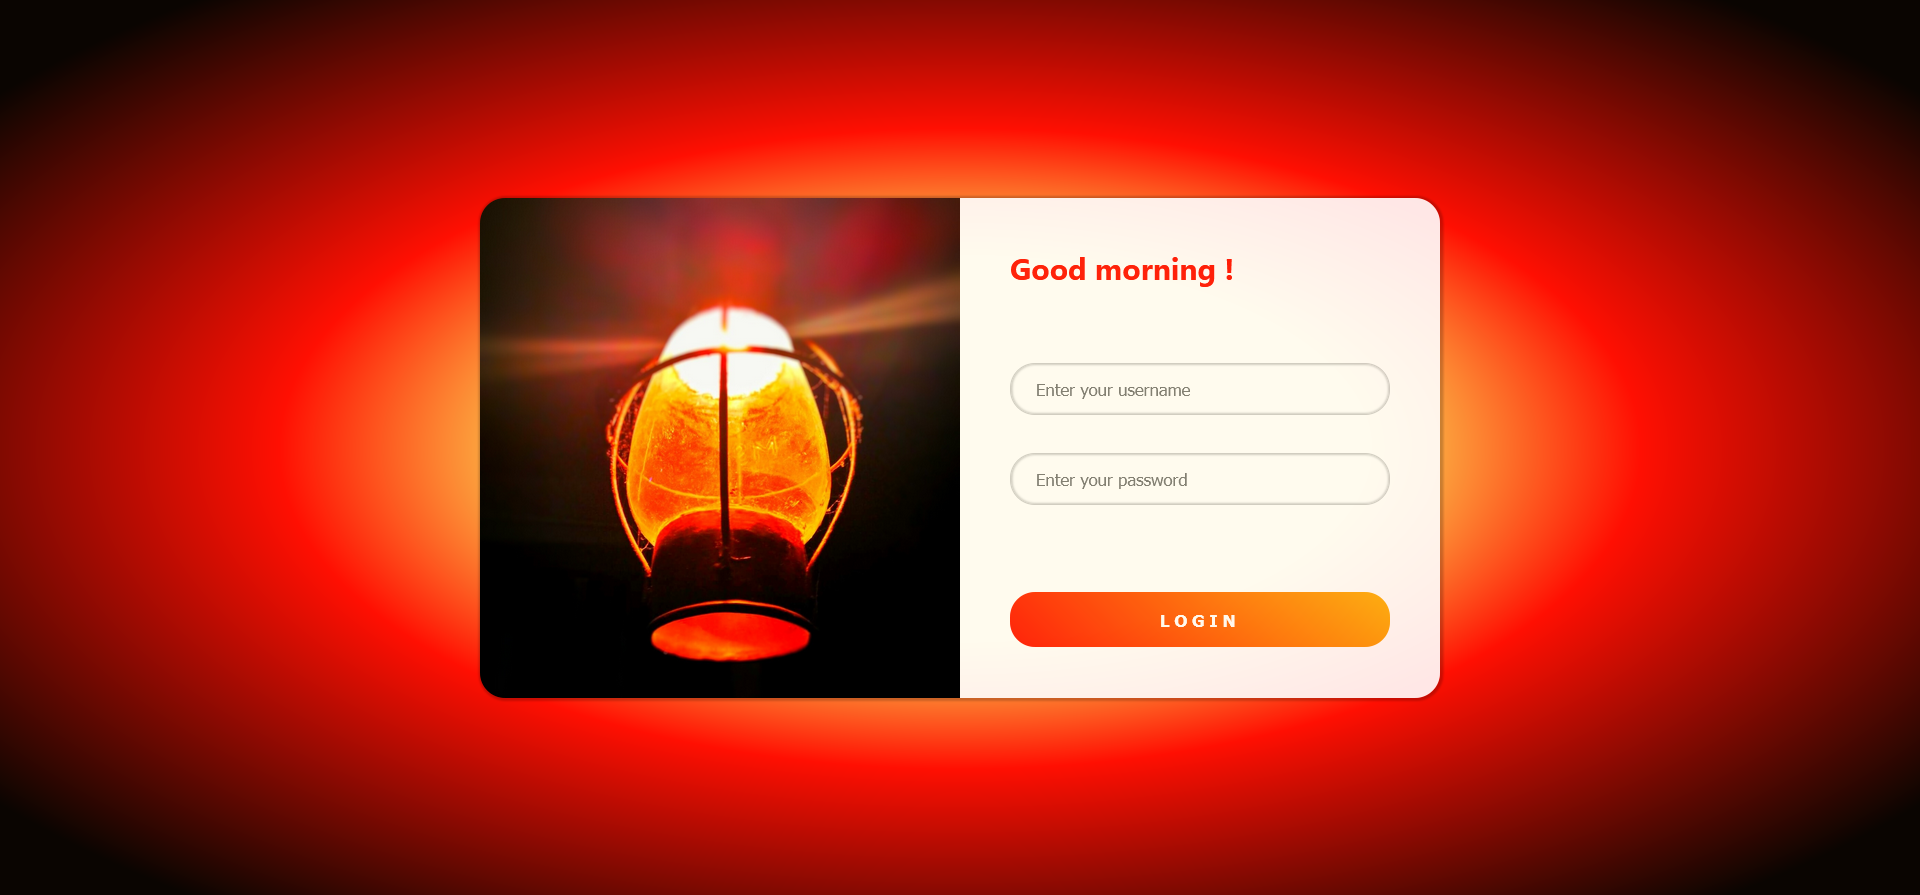
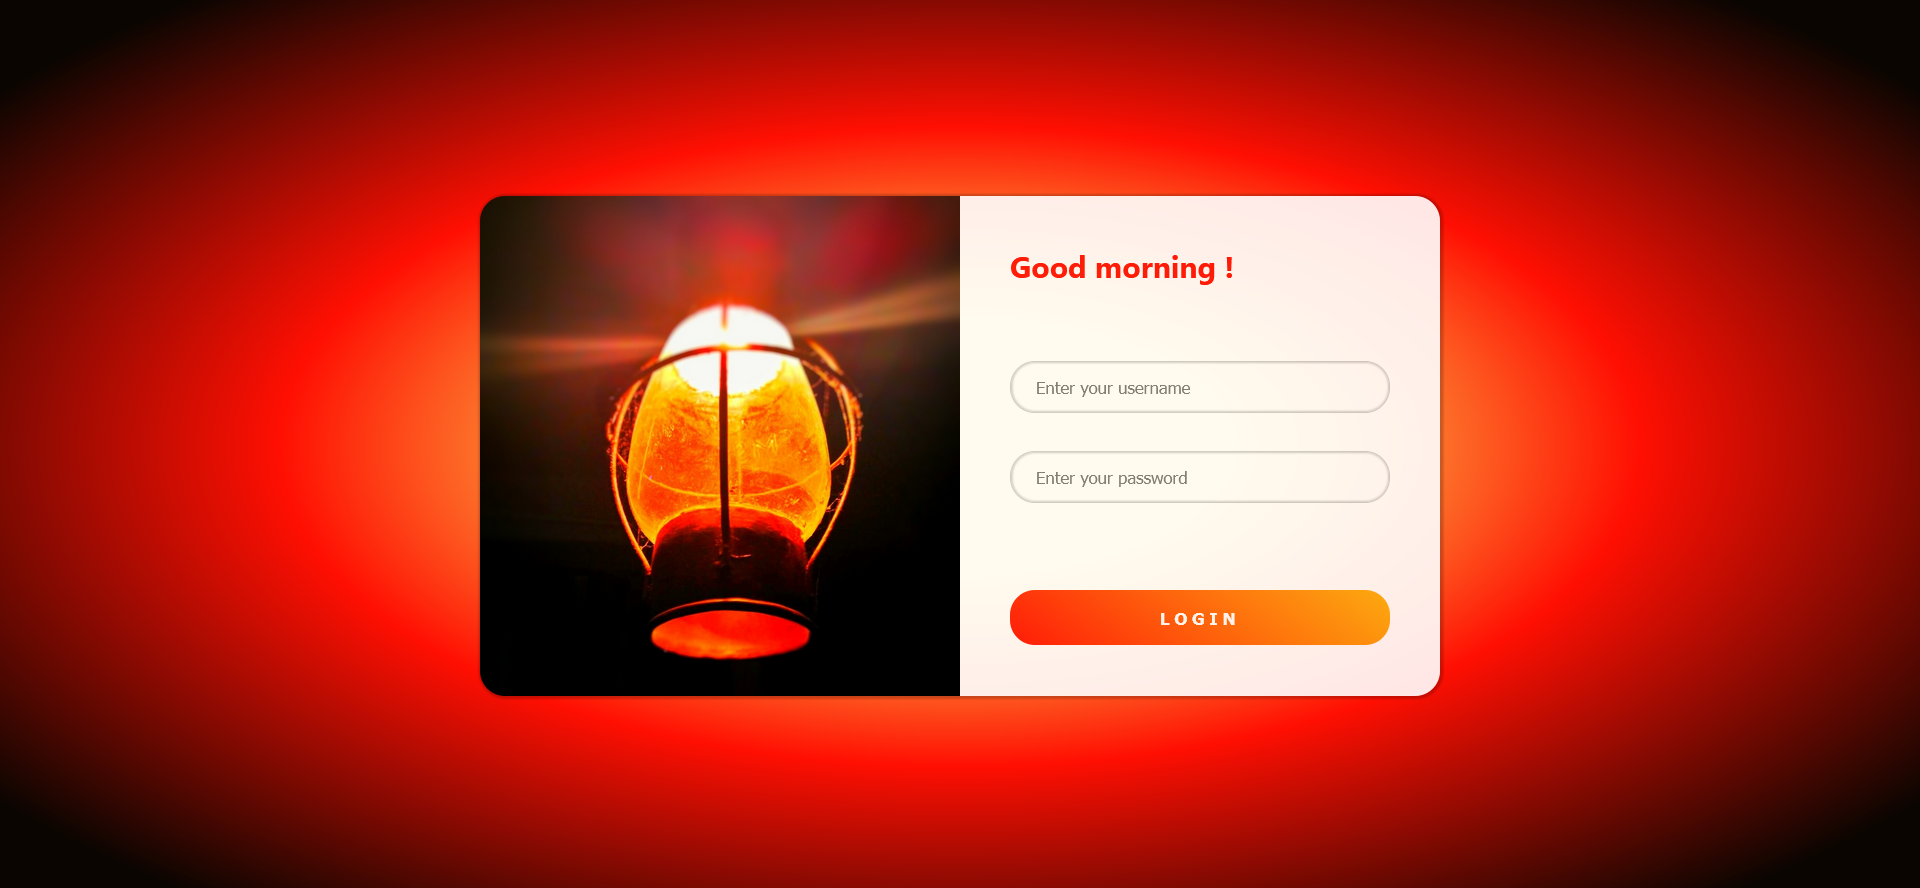
Refactor screenshots

diff --git a/login-page/V2/styles.css b/login-page/V2/styles.css
@@ -6,7 +6,7 @@ html {
 }
 
 .bg-image {
-    background: radial-gradient(#FBD552 30%, #FF0F02 50%, #0A0501 90%);
+    background: radial-gradient(#FBD552 20%, #FF0F02 50%, #0A0501 90%);
     width: 100%;
     height: 100%;
 }
